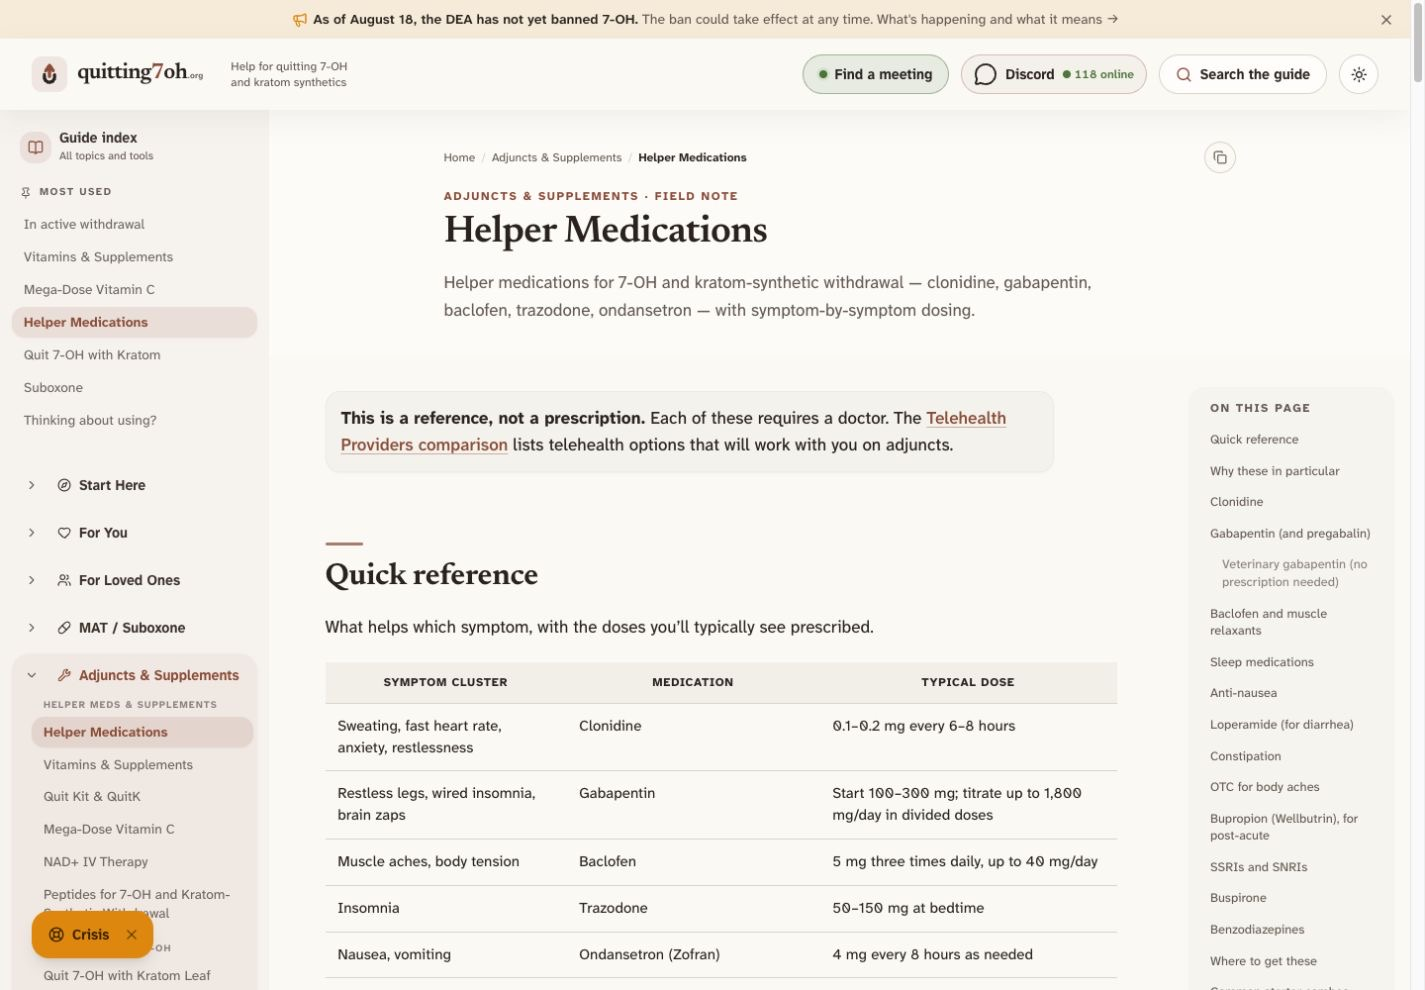
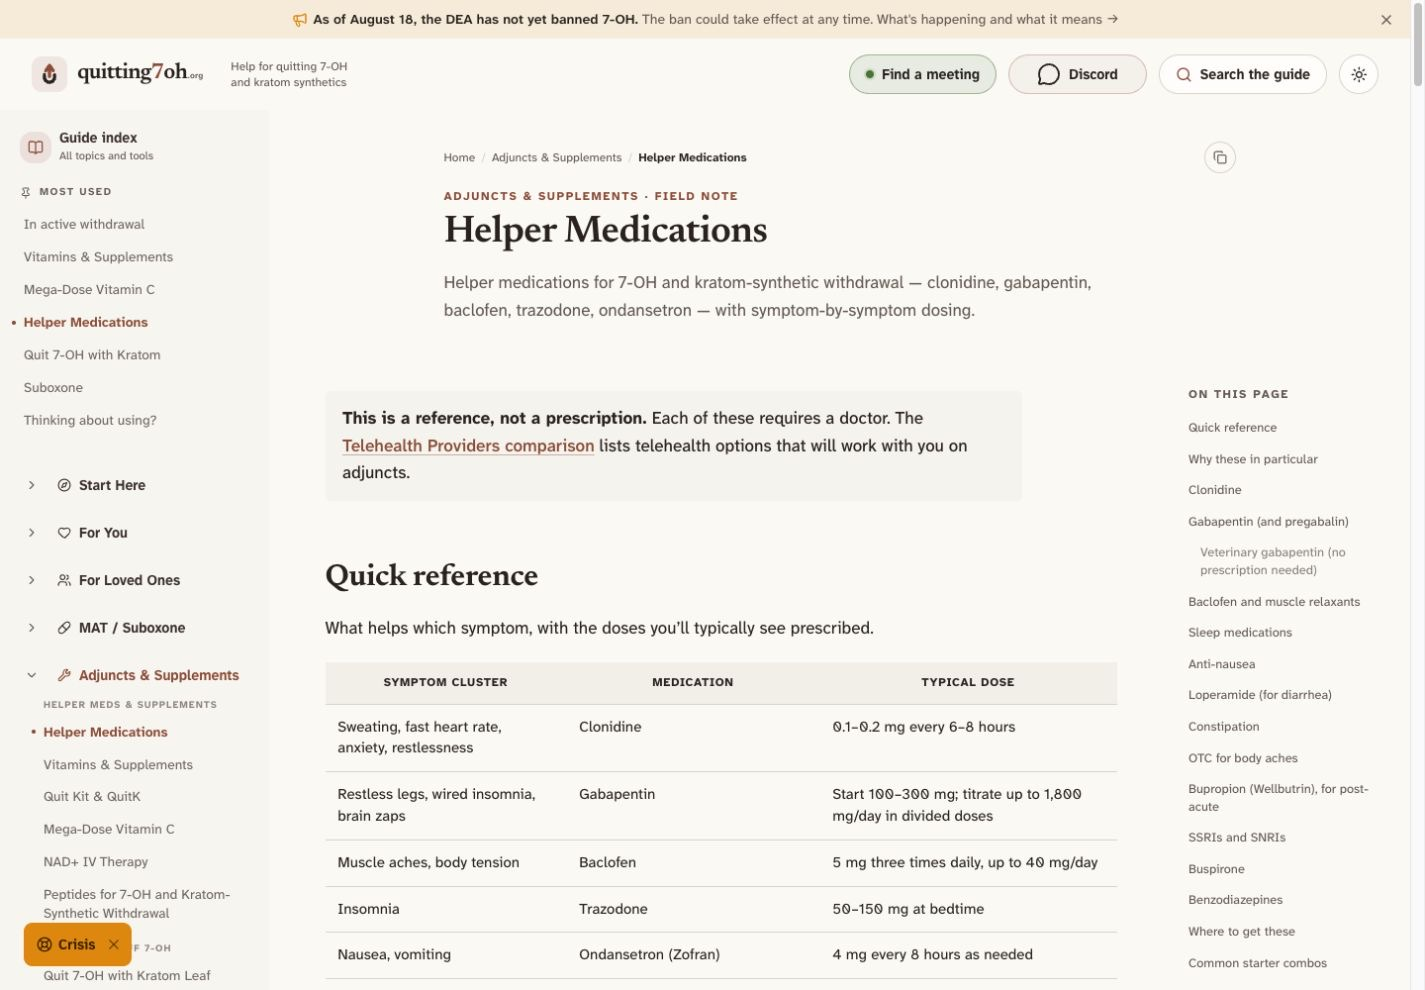
replace card-heavy pass with restrained editorial layout

diff --git a/src/components/TaperCalculator.tsx b/src/components/TaperCalculator.tsx
@@ -779,7 +779,7 @@ export function TaperCalculator({
     <TooltipProvider delayDuration={150}>
     <div className="not-prose my-6 space-y-6">
       {/* Form */}
-      <div className="grid gap-5 rounded-2xl bg-muted/45 p-5 shadow-sm sm:grid-cols-2 sm:p-6 print:hidden">
+      <div className="grid gap-5 rounded-lg border border-border bg-card p-5 sm:grid-cols-2 sm:p-6 print:hidden">
         <div className="sm:col-span-2 flex items-start justify-between gap-3">
           <div className="flex-1">
             {substances.length > 1 && (
@@ -867,7 +867,7 @@ export function TaperCalculator({
           </div>
         )}
 
-        <div className="sm:col-span-2 rounded-xl bg-background/60 px-4 py-3 text-sm shadow-sm">
+        <div className="sm:col-span-2 rounded-md bg-muted/45 px-4 py-3 text-sm">
           <span className="text-muted-foreground">Total daily:</span>{' '}
           <span className="font-semibold text-foreground">
             {roundDose(totalDaily)} {cfg.unit}
@@ -916,7 +916,7 @@ export function TaperCalculator({
         </div>
 
         {difficulty === 'custom' && (
-          <div className="sm:col-span-2 grid gap-4 rounded-xl bg-background/55 p-4 shadow-sm sm:grid-cols-2">
+          <div className="sm:col-span-2 grid gap-4 rounded-md bg-muted/40 p-4 sm:grid-cols-2">
             <div>
               <Label htmlFor="custom-days">Total duration</Label>
               <div className="mt-1.5 flex items-center gap-2">
@@ -987,7 +987,7 @@ export function TaperCalculator({
             <Stat label="Approach" value={sourceLabel(result.source)} />
           </div>
 
-          <div className="field-card p-5 sm:p-6">
+          <div className="rounded-lg border border-border bg-card p-5 sm:p-6">
             <h3 className="mb-4 font-display text-xl font-semibold text-foreground">
               Schedule curve (total daily)
             </h3>
@@ -1035,7 +1035,7 @@ export function TaperCalculator({
             </ChartContainer>
           </div>
 
-          <div className="field-card overflow-hidden">
+          <div className="overflow-hidden rounded-lg border border-border bg-card">
             <h3 className="bg-muted/45 px-5 py-4 font-display text-xl font-semibold text-foreground">
               Schedule table
             </h3>
@@ -1234,7 +1234,7 @@ export function TaperCalculator({
 
 function Stat({ label, value }: { label: string; value: string }) {
   return (
-    <div className="rounded-xl bg-card p-4 shadow-sm sm:p-5">
+    <div className="rounded-md border border-border/70 bg-card p-4 sm:p-5">
       <div className="text-[0.68rem] font-bold uppercase tracking-[0.1em] text-muted-foreground">
         {label}
       </div>

diff --git a/src/styles/global.css b/src/styles/global.css
@@ -247,11 +247,9 @@
   }
 
   .field-card {
-    border-radius: 0.9rem;
+    border: 1px solid hsl(var(--border));
+    border-radius: 0.55rem;
     background: hsl(var(--card));
-    box-shadow: 0 1px 2px hsl(var(--foreground) / 0.045),
-      0 14px 34px hsl(var(--foreground) / 0.035),
-      inset 0 0 0 1px hsl(var(--foreground) / 0.035);
   }
 
   .quiet-grid {
@@ -292,26 +290,14 @@
   }
 
   .prose-recovery > h2 {
-    margin: 3.4rem 0 1.15rem;
-    padding-top: 1rem;
+    margin: 3.7rem 0 1.15rem;
     font-size: clamp(1.7rem, 1.62rem + 0.35vw, 1.92rem);
     line-height: 1.18;
   }
 
-  .prose-recovery > h2::before {
-    content: '';
-    display: block;
-    width: 2.4rem;
-    height: 0.22rem;
-    margin-bottom: 0.85rem;
-    border-radius: 999px;
-    background: hsl(var(--primary));
-    opacity: 0.72;
-  }
-
   .prose-recovery > h3 {
     max-width: 43rem;
-    margin: 2.65rem 0 1rem;
+    margin: 2.8rem 0 0.9rem;
     padding: 0;
     color: hsl(var(--foreground));
     font-family: var(--font-sans);
@@ -319,17 +305,6 @@
     font-weight: 760;
     letter-spacing: -0.005em;
     line-height: 1.32;
-  }
-
-  .prose-recovery > h3::before {
-    content: '';
-    display: inline-block;
-    width: 0.55rem;
-    height: 0.55rem;
-    margin-right: 0.65rem;
-    border-radius: 0.18rem;
-    background: hsl(var(--primary) / 0.72);
-    vertical-align: 0.08em;
   }
 
   .prose-recovery > h4 {
@@ -345,11 +320,6 @@
 
   .prose-recovery > h2:first-child {
     margin-top: 0;
-    padding-top: 0;
-  }
-
-  .prose-recovery > h2:first-child::before {
-    display: none;
   }
 
   .prose-recovery > p {
@@ -441,14 +411,12 @@
   }
 
   .prose-recovery :where(blockquote) {
-    max-width: 46rem;
+    max-width: 44rem;
     margin: 1.4rem 0;
     border: 0;
-    border-radius: 0.9rem;
-    background: hsl(var(--muted) / 0.72);
-    box-shadow: 0 1px 2px hsl(var(--foreground) / 0.045),
-      inset 0 0 0 1px hsl(var(--foreground) / 0.035);
-    padding: 0.85rem 1rem;
+    border-radius: 0.35rem;
+    background: hsl(var(--muted) / 0.58);
+    padding: 0.9rem 1.1rem;
     color: hsl(var(--foreground));
     font-style: normal;
     font-weight: 470;
@@ -551,9 +519,7 @@
   .callout-medical {
     margin: 1.75rem 0;
     border: 0;
-    border-radius: 0.9rem;
-    box-shadow: 0 1px 2px hsl(var(--foreground) / 0.045),
-      inset 0 0 0 1px hsl(var(--foreground) / 0.035);
+    border-radius: 0.35rem;
     padding: 1rem 1.1rem;
   }
 

diff --git a/src/components/AppSidebar.tsx b/src/components/AppSidebar.tsx
@@ -40,9 +40,9 @@ function PageLink({ item, currentPath }: { item: SidebarItem; currentPath: strin
         href={item.href}
         aria-current={active ? 'page' : undefined}
         className={cn(
-          'block rounded-lg px-3 py-1.5 text-[0.86rem] leading-snug transition-colors',
+          'relative block rounded-md px-3 py-1.5 text-[0.86rem] leading-snug transition-colors',
           active
-            ? 'bg-primary/12 font-bold text-primary shadow-sm shadow-primary/5'
+            ? 'font-bold text-primary before:absolute before:left-0 before:top-1/2 before:size-1 before:-translate-y-1/2 before:rounded-full before:bg-primary'
             : 'text-sidebar-foreground/72 hover:bg-sidebar-accent/60 hover:text-sidebar-foreground',
         )}
       >
@@ -94,7 +94,7 @@ function Navigation({ categories, pinned, currentPath }: Props) {
                   Reference library
                 </p>
               )}
-              <section className={cn('rounded-xl', current && 'bg-sidebar-accent/55 shadow-sm shadow-primary/5')}>
+              <section>
                 <div className="flex items-center gap-1.5 p-1">
                   <button
                     type="button"
@@ -185,7 +185,7 @@ export function AppSidebar(props: Props) {
   }
 
   return (
-    <aside aria-label="Guide navigation" className="hidden w-[17rem] shrink-0 bg-sidebar/72 lg:block">
+    <aside aria-label="Guide navigation" className="hidden w-[17rem] shrink-0 bg-sidebar/45 lg:block">
       <div ref={desktopRef} className="scrollbar-none sticky top-[4.5rem] max-h-[calc(100vh-4.5rem)] overflow-y-auto overscroll-contain">
         <Navigation {...props} />
       </div>

diff --git a/src/components/Sr17CrossTaper.tsx b/src/components/Sr17CrossTaper.tsx
@@ -302,9 +302,9 @@ function ConfigPanel({ inputs, setInputs }: ConfigPanelProps) {
   const ohTotal = inputs.ohPerDose * inputs.ohDosesPerDay;
   const preloadTotal = inputs.preloadPerDose * inputs.preloadDosesPerDay;
   return (
-    <div className="space-y-6 rounded-2xl bg-muted/45 p-5 shadow-sm sm:p-6 print:hidden">
+    <div className="space-y-6 rounded-lg border border-border bg-card p-5 sm:p-6 print:hidden">
       {/* Safety callout */}
-      <div className="rounded-xl bg-signal/10 p-4 text-sm shadow-sm">
+      <div className="rounded-md bg-signal/10 p-4 text-sm">
         <p className="font-semibold text-foreground">
           Stacked opioid exposure during preload and cross-taper.
         </p>
@@ -655,7 +655,7 @@ function phaseRowClass(phase: Sr17Phase): string {
 
 function Stat({ label, value }: { label: string; value: string }) {
   return (
-    <div className="rounded-xl bg-card p-4 shadow-sm sm:p-5">
+    <div className="rounded-md border border-border/70 bg-card p-4 sm:p-5">
       <div className="text-[0.68rem] font-bold uppercase tracking-[0.1em] text-muted-foreground">
         {label}
       </div>
@@ -695,7 +695,7 @@ function Output({
         <Stat label="Protocol" value="SR-17 cross-taper" />
       </div>
 
-      <div className="field-card overflow-hidden">
+      <div className="overflow-hidden rounded-lg border border-border bg-card">
         <h3 className="bg-muted/45 px-5 py-4 font-display text-xl font-semibold text-foreground">
           Day-by-day schedule
         </h3>

diff --git a/src/components/CrisisButton.tsx b/src/components/CrisisButton.tsx
@@ -118,9 +118,9 @@ export function CrisisButton() {
 
   return (
     <Sheet>
-      <div className="fixed bottom-6 left-6 z-20 sm:bottom-8 sm:left-8">
+      <div className="fixed bottom-3 left-3 z-20 sm:bottom-6 sm:left-6">
         <SheetTrigger
-          className="inline-flex h-12 items-center gap-2 rounded-xl border border-signal/70 bg-signal pl-4 pr-11 text-sm font-bold text-signal-foreground shadow-lg transition-colors hover:bg-signal/90"
+          className="inline-flex h-11 items-center gap-1.5 rounded-md border border-signal/70 bg-signal pl-3 pr-9 text-sm font-bold text-signal-foreground transition-colors hover:bg-signal/90"
           aria-label="Open crisis resources"
         >
           <LifeBuoy className="h-4 w-4" aria-hidden="true" />
@@ -132,7 +132,7 @@ export function CrisisButton() {
           type="button"
           onClick={dismissForSession}
           aria-label="Hide crisis button"
-          className="absolute right-1.5 top-1/2 inline-flex h-8 w-8 -translate-y-1/2 items-center justify-center rounded-lg text-signal-foreground/65 hover:bg-signal-foreground/10 hover:text-signal-foreground"
+          className="absolute right-1 top-1/2 inline-flex h-7 w-7 -translate-y-1/2 items-center justify-center rounded text-signal-foreground/65 hover:bg-signal-foreground/10 hover:text-signal-foreground"
         >
           <X className="h-4 w-4" />
         </button>

diff --git a/src/components/Toc.tsx b/src/components/Toc.tsx
@@ -104,8 +104,8 @@ export function Toc({ headings }: Props) {
   if (filtered.length === 0) return null;
 
   return (
-    <nav aria-label="Table of contents" className="rounded-2xl bg-muted/45 p-3.5 text-sm">
-      <p className="eyebrow mb-2.5 px-2 !text-muted-foreground">
+    <nav aria-label="Table of contents" className="text-sm">
+      <p className="eyebrow mb-3 !text-muted-foreground">
         On this page
       </p>
       <ul
@@ -118,9 +118,9 @@ export function Toc({ headings }: Props) {
               href={`#${h.slug}`}
               aria-current={active === h.slug ? 'location' : undefined}
               className={cn(
-                'block rounded-lg px-2 py-1.5 text-[0.8rem] leading-snug text-muted-foreground transition-colors hover:bg-background/60 hover:text-foreground',
-                h.depth === 3 && 'pl-5 text-muted-foreground/75',
-                active === h.slug && 'bg-primary/11 font-bold text-primary shadow-sm shadow-primary/5',
+                'block py-1.5 text-[0.8rem] leading-snug text-muted-foreground transition-colors hover:text-foreground',
+                h.depth === 3 && 'pl-3 text-muted-foreground/75',
+                active === h.slug && 'font-bold text-primary',
               )}
             >
               {h.text}

diff --git a/src/components/TocMobile.tsx b/src/components/TocMobile.tsx
@@ -24,7 +24,7 @@ export function TocMobile({ headings }: Props) {
     <Collapsible
       open={open}
       onOpenChange={setOpen}
-      className="rounded-xl bg-muted/55 shadow-sm xl:hidden"
+      className="rounded-md border border-border bg-background/55 xl:hidden"
     >
       <CollapsibleTrigger className="flex min-h-12 w-full cursor-pointer items-center justify-between gap-2 px-4 py-3 text-sm font-bold text-foreground hover:bg-accent">
         <span className="flex items-center gap-2">
@@ -54,9 +54,9 @@ export function TocMobile({ headings }: Props) {
                   href={`#${h.slug}`}
                   aria-current={active === h.slug ? 'location' : undefined}
                   className={cn(
-                    'block rounded-lg px-3 py-2 leading-snug text-foreground transition-colors hover:bg-background/65 hover:text-primary',
+                    'block rounded-sm px-3 py-2 leading-snug text-foreground transition-colors hover:text-primary',
                     h.depth === 3 && 'pl-6 text-muted-foreground',
-                    active === h.slug && 'bg-primary/11 font-bold text-primary',
+                    active === h.slug && 'font-bold text-primary',
                   )}
                 >
                   {h.text}

diff --git a/src/components/Callout.tsx b/src/components/Callout.tsx
@@ -31,7 +31,7 @@ const styles = {
 export function Callout({ type = 'info', title, children }: Props) {
   const { Icon, title: fallback, className } = styles[type];
   return (
-    <aside className={cn('not-prose my-7 grid grid-cols-[auto_minmax(0,1fr)] gap-3 rounded-xl px-4 py-3.5 shadow-sm', className)}>
+    <aside className={cn('not-prose my-7 grid grid-cols-[auto_minmax(0,1fr)] gap-3 rounded px-4 py-3.5', className)}>
       <span className="callout-icon inline-flex size-6 items-center justify-center">
         <Icon className="size-4" aria-hidden="true" />
       </span>

diff --git a/src/components/NextMeeting.tsx b/src/components/NextMeeting.tsx
@@ -115,7 +115,7 @@ function LiveMeetingAlternatives({ standalone = false }: { standalone?: boolean 
     <div
       className={cn(
         'flex flex-col gap-2.5 text-sm sm:flex-row sm:items-center sm:justify-between',
-        standalone ? 'field-card p-5 sm:p-6' : 'rounded-xl bg-muted/45 px-3 py-2.5',
+        standalone ? 'field-card p-5 sm:p-6' : 'pt-1',
       )}
     >
       <span className="font-medium text-foreground/80">

diff --git a/REDESIGN.md b/REDESIGN.md
@@ -6,11 +6,11 @@ easy to scan.
 
 ## Design intent
 
-Tonal paper surfaces, compact section markers, generous reading measure, and an
-editorial serif separate navigation from article text. Hard framing is reserved
-for controls and data tables; page structure comes from spacing and grouped
-surfaces. Large tap targets and direct labels shorten the path to withdrawal
-help and meetings.
+A restrained editorial layout, generous reading measure, and a clear serif/sans
+hierarchy separate navigation from article text. Ordinary navigation and page
+sections remain unboxed; framing is reserved for real objects such as forms,
+meeting widgets, and data tables. Large tap targets and direct labels shorten
+the path to withdrawal help and meetings.
 
 The homepage starts with withdrawal help and a comparison of quitting options.
 Search and the next meeting appear in the opening view. A compact topic index
@@ -29,9 +29,9 @@ repeating each category description.
   16px on phones, with a 1.72 line height. Dose and schedule data use tabular
   numerals.
 - Content-page titles run from 2.05rem to 2.4rem. Article section headings stay
-  near 1.9rem and use a short clay marker; 1.16rem sans-serif subsections use a
-  compact square marker to create a second, clearly different level. The larger
-  display scale is reserved for the homepage.
+  near 1.9rem; 1.16rem sans-serif subsections create a second, clearly
+  different level through family, weight, and spacing rather than decorative
+  rules or markers. The larger display scale is reserved for the homepage.
 - Lists use familiar disc and decimal markers with restrained burnt-clay color.
   The first pass's ring bullets and zero-padded counters were removed because
   they drew attention away from the text.
@@ -58,8 +58,9 @@ the banner, floating crisis control, and high-risk callouts.
 ## Space and layout
 
 Spacing follows a four-pixel base with larger editorial jumps between reading
-sections. Controls have a minimum height of 44px. Cards use a moderate radius,
-tonal contrast, and shallow shadows rather than visible layout rules.
+sections. Controls have a minimum height of 44px. Object containers use a low
+radius and a quiet one-pixel boundary; navigation, metadata, and topic indexes
+use alignment and whitespace instead of card chrome.
 
 Page headers use short vertical padding and share the reading column's measure.
 The footer uses a tonal paper surface in both themes instead of reversing to a
@@ -76,8 +77,8 @@ sections are not skipped.
 Wide data tables stay tables. Their containing card scrolls on the horizontal
 axis, keeps the day column visible, and uses tabular numerals. Calculators use
 the same field, summary, chart, and schedule treatments as the meeting tools.
-Callouts use a wider 46rem measure than paragraph text, borderless tinted
-surfaces, and tighter internal list rhythm, allowing dense summaries to stay
+Callouts use a 44rem measure, flat borderless tints, and tighter internal list
+rhythm, allowing dense summaries to stay
 compact without shrinking body type.
 
 ## Components
